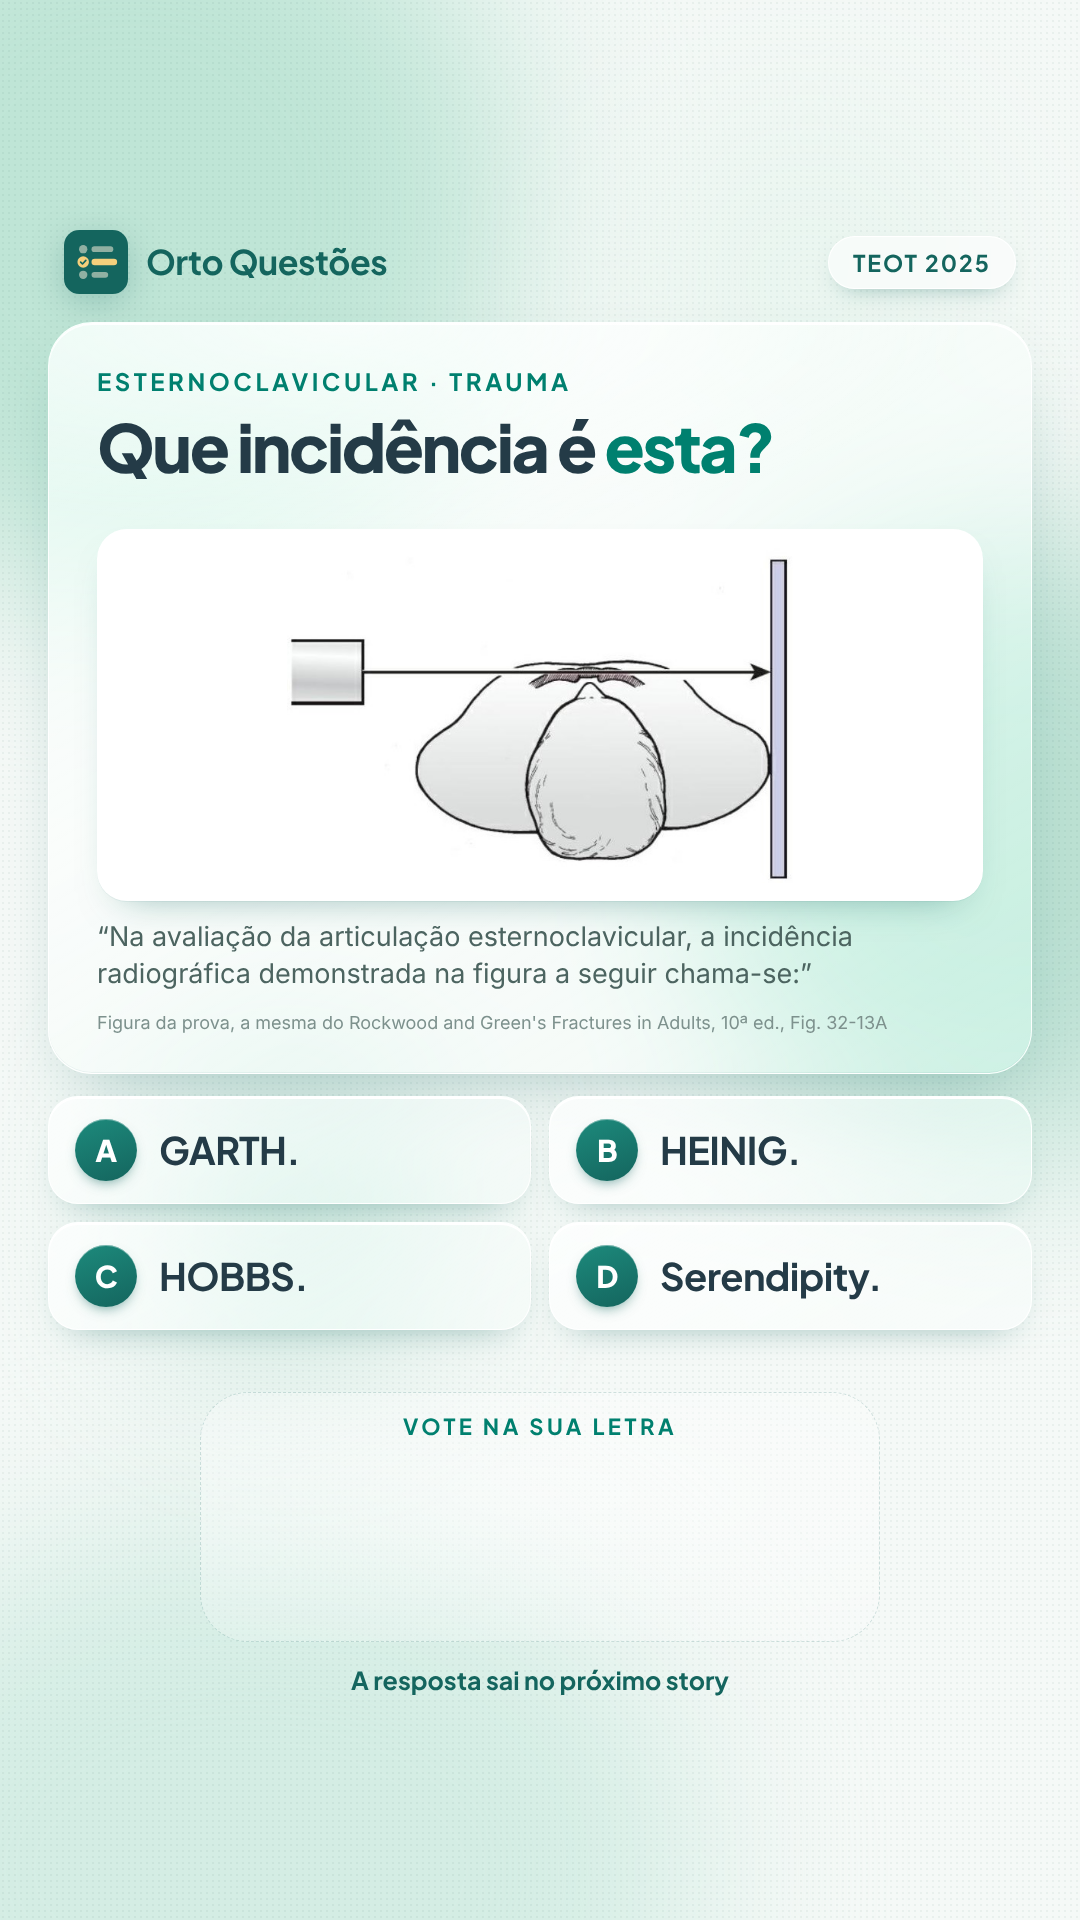
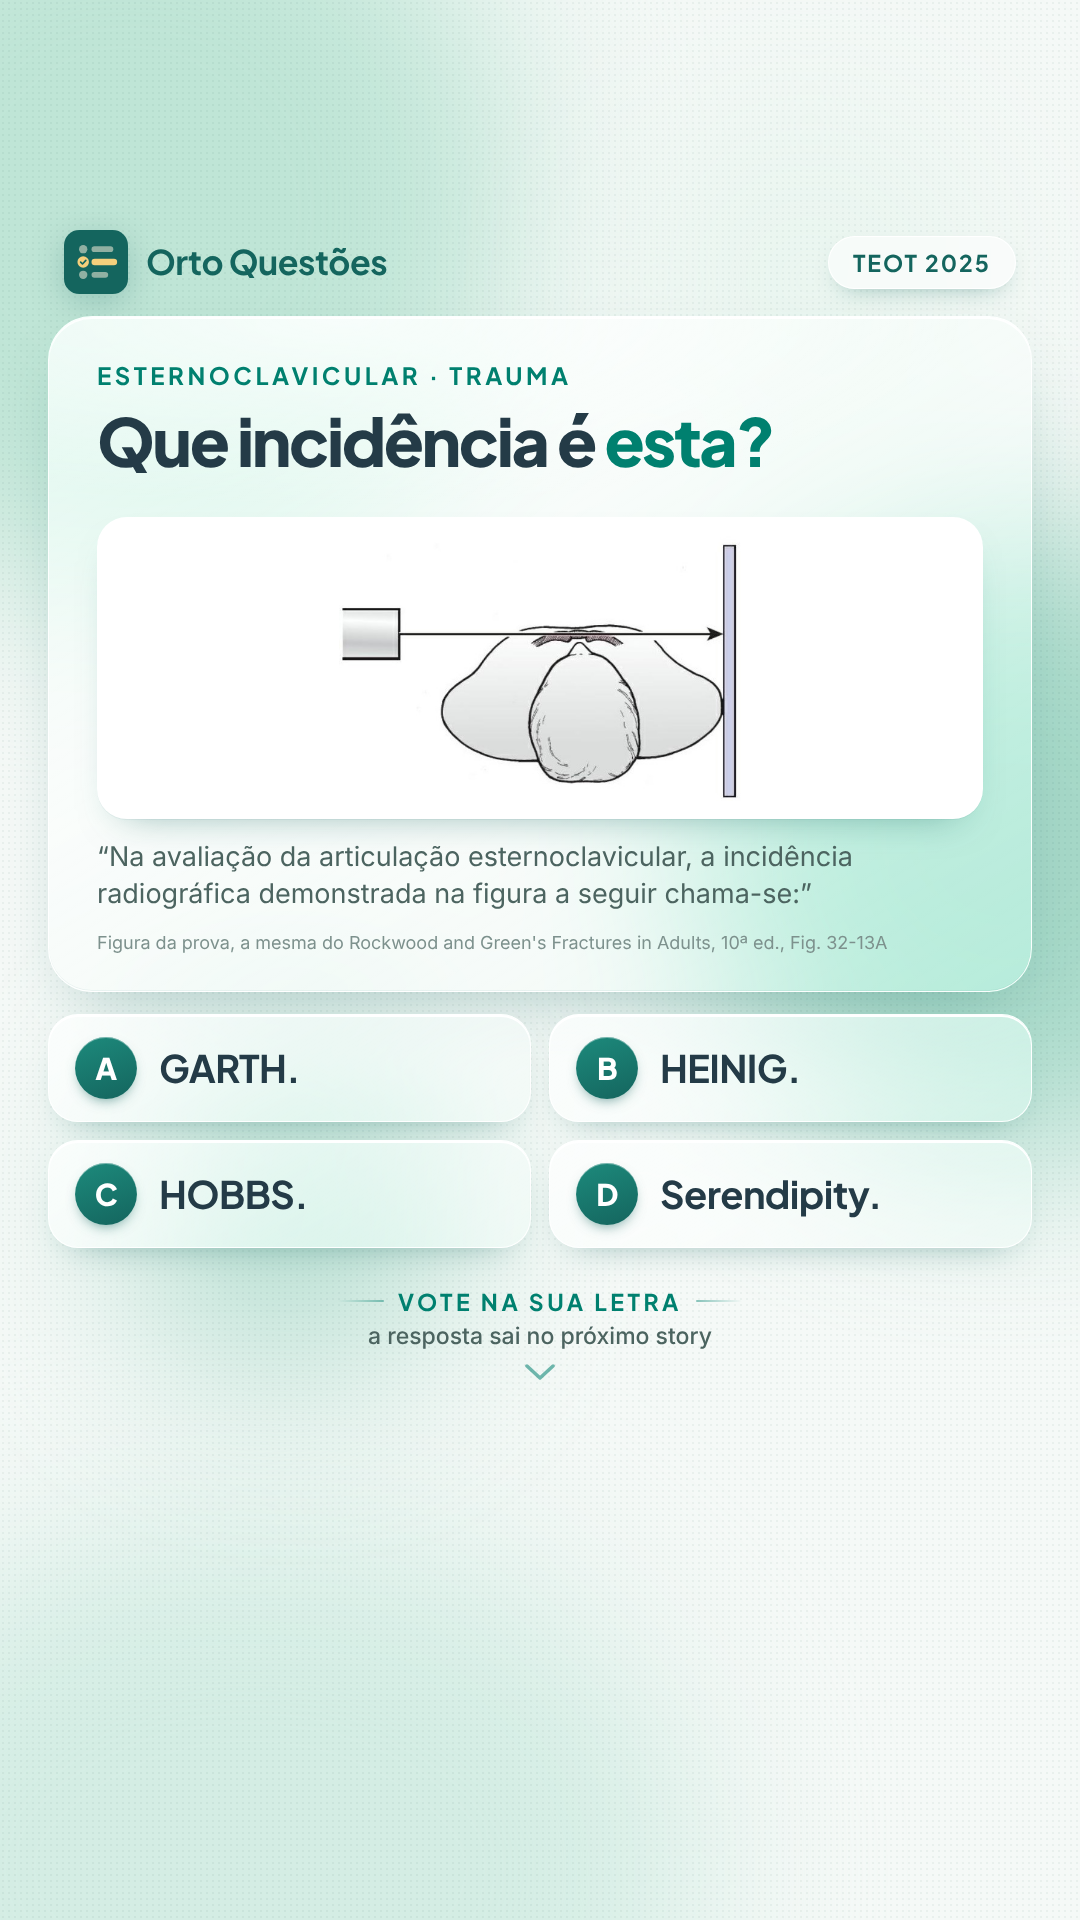
Story 1 do HEINIG: tira a caixa da enquete e deixa só a área livre com a dica
Claude-Session: https://claude.ai/code/session_01GbKh11zCitYpbRvWcxSxNK

diff --git a/marketing/instagram/posts/2026-11-18-vidro-heinig/stories.html b/marketing/instagram/posts/2026-11-18-vidro-heinig/stories.html
@@ -1,7 +1,7 @@
 <!doctype html>
 <html lang="pt-BR"><head><meta charset="utf-8"><title>Vidro claro — HEINIG, TEOT 2025 (stories)</title>
 <!-- Stories "Vidro claro" (pedido do Tales, 18/11/2026): 3 stories, sem temática, cores do site (branco e verde),
-     acabamento de vidro suave (liquid glass), espaço livre para a enquete A/B/C/D no story 1 (o formato que deu
+     acabamento de vidro suave (liquid glass), área livre (sem caixa) para a enquete A/B/C/D no story 1 (o formato que deu
      certo no story do osteoma osteoide), trecho do comentário com o livro e convite ao site gratuito.
      Questão real: trauma-0753 (TEOT 2025), gabarito oficial B (HEINIG).
      Fonte: Rockwood and Green's Fractures in Adults, 10ª ed. (2025), cap. 32, Fig. 32-13 (a mesma figura da prova);
@@ -37,10 +37,10 @@ section {
 .fundo { position: absolute; inset: 0; z-index: -1; overflow: hidden; }
 .fundo i { position: absolute; border-radius: 50%; filter: blur(90px); }
 .fundo .m1 { width: 780px; height: 780px; left: -260px; top: -180px; background: #bfe5d6; }
-.fundo .m2 { width: 640px; height: 640px; right: -240px; top: 520px; background: #a9d9c8; opacity: .75; }
+.fundo .m2 { width: 640px; height: 640px; right: -240px; top: 520px; background: #93d1bd; opacity: .8; }
 .fundo .m3 { width: 900px; height: 700px; left: -200px; bottom: -300px; background: #d4ede4; }
 .fundo .m4 { width: 380px; height: 380px; right: 80px; top: 90px; background: #e9f5ef; }
-.fundo .m5 { width: 300px; height: 300px; left: 140px; top: 1060px; background: #8fcdb9; opacity: .45; }
+.fundo .m5 { width: 340px; height: 340px; left: 120px; top: 1040px; background: #7cc6ae; opacity: .5; }
 .fundo::after { /* grão muito leve, para não parecer gradiente chapado */
   content: ''; position: absolute; inset: 0; opacity: .05;
   background-image: radial-gradient(#0b3b35 1px, transparent 1px); background-size: 6px 6px;
@@ -111,20 +111,14 @@ b { font-weight: 700; color: var(--tinta); }
 .alt.certa .l { background: linear-gradient(160deg, #f8dc92, #e2b24f); color: #4a3a12; }
 .alt.apagada { opacity: .5; }
 
-/* Espaço da enquete: sem moldura dura, só um vidro mais fino com cantos sugeridos */
-.enquete { position: absolute; border-radius: 48px;
-  background: radial-gradient(120% 90% at 50% 40%, rgba(255,255,255,.55), rgba(255,255,255,.12));
-  border: 1.5px dashed rgba(20,101,94,.18);
-}
-.enquete .dica {
-  position: absolute; left: 0; right: 0; top: 22px; text-align: center;
-  font: 700 22px/1 Jakarta; letter-spacing: 3.5px; text-transform: uppercase; color: var(--verde2);
-}
-.enquete .fantasma { position: absolute; inset: 44px 52px; display: grid; gap: 20px; opacity: .22; }
-.enquete .fantasma span {
-  border-radius: 22px; border: 2px solid rgba(20,101,94,.35);
-  display: flex; align-items: center; padding-left: 26px; font: 800 30px/1 Jakarta; color: var(--verde);
-}
+/* Espaço da enquete: nada desenhado, só a área livre e uma dica discreta no topo dela */
+.cheiro { position: absolute; left: 0; right: 0; text-align: center; }
+.cheiro .dica { display: inline-flex; align-items: center; gap: 14px;
+  font: 700 23px/1 Jakarta; letter-spacing: 3.5px; text-transform: uppercase; color: var(--verde2); }
+.cheiro .dica::before, .cheiro .dica::after { content: ''; width: 46px; height: 2px; border-radius: 2px;
+  background: linear-gradient(90deg, rgba(0,128,111,0), rgba(0,128,111,.45)); }
+.cheiro .dica::after { transform: scaleX(-1); }
+.cheiro svg { display: block; margin: 14px auto 0; width: 34px; height: 20px; opacity: .55; }
 
 /* Rodapé */
 .rodape { position: absolute; left: 64px; right: 64px; bottom: 300px; text-align: center; }
@@ -210,35 +204,34 @@ tr.dest td:last-child { border-radius: 0 14px 14px 0; }
     <span class="pilula">TEOT 2025</span>
   </div>
 
-  <div class="vidro" style="left:48px; right:48px; top:322px; height:752px;">
+  <div class="vidro" style="left:48px; right:48px; top:316px; height:676px;">
     <div style="position:absolute; left:48px; right:48px; top:46px;">
       <div class="rotulo">Esternoclavicular · trauma</div>
       <h1 style="margin-top:20px; font-size:66px;">Que incidência é <em>esta?</em></h1>
     </div>
-    <div class="placa" style="left:48px; right:48px; top:206px; height:372px;">
+    <div class="placa" style="left:48px; right:48px; top:200px; height:302px;">
       <img src="img/heinig-desenho.png" alt="" style="padding:18px 30px;">
     </div>
-    <p style="position:absolute; left:48px; right:48px; top:596px; font-size:27px; line-height:1.36;">
+    <p style="position:absolute; left:48px; right:48px; top:522px; font-size:27px; line-height:1.36;">
       “Na avaliação da articulação esternoclavicular, a incidência radiográfica demonstrada na figura a seguir chama-se:”
     </p>
-    <div class="fonte" style="position:absolute; left:48px; right:48px; top:688px; font-size:18px;">Figura da prova, a mesma do Rockwood and Green's Fractures in Adults, 10ª ed., Fig. 32-13A</div>
+    <div class="fonte" style="position:absolute; left:48px; right:48px; top:614px; font-size:18px;">Figura da prova, a mesma do Rockwood and Green's Fractures in Adults, 10ª ed., Fig. 32-13A</div>
   </div>
 
-  <div class="alts" style="left:48px; right:48px; top:1096px;">
+  <div class="alts" style="left:48px; right:48px; top:1014px;">
     <div class="alt"><span class="l">A</span>GARTH.</div>
     <div class="alt"><span class="l">B</span>HEINIG.</div>
     <div class="alt"><span class="l">C</span>HOBBS.</div>
     <div class="alt"><span class="l">D</span>Serendipity.</div>
   </div>
 
-  <!-- Espaço para a figurinha de enquete do Instagram (A, B, C, D) -->
-  <div class="enquete" style="left:200px; right:200px; top:1392px; height:250px;">
-    <div class="dica">Vote na sua letra</div>
+  <!-- Espaço livre para a figurinha de enquete do Instagram (A, B, C, D): sem caixa, só a dica -->
+  <div class="cheiro" style="top:1286px;">
+    <span class="dica">Vote na sua letra</span>
+    <div style="margin-top:12px; font:500 23px/1 Inter; color:var(--tinta2);">a resposta sai no próximo story</div>
+    <svg viewBox="0 0 34 20"><path d="M4 4l13 12L30 4" fill="none" stroke="#00806f" stroke-width="3.5" stroke-linecap="round" stroke-linejoin="round"/></svg>
   </div>
 
-  <div style="position:absolute; left:64px; right:64px; top:1668px; text-align:center; font:700 25px/1 Jakarta; color:var(--verde);">
-    A resposta sai no próximo story
-  </div>
 </section>
 
 <!-- ============ STORY 2: a resposta com o trecho do comentário ============ -->

diff --git a/marketing/instagram/posts/2026-11-18-vidro-heinig/LEGENDA.md b/marketing/instagram/posts/2026-11-18-vidro-heinig/LEGENDA.md
@@ -15,7 +15,7 @@ Questão `trauma-0753` (**TEOT 2025**), gabarito oficial **B** (HEINIG).
 
 | Ordem | Horário | Story | Arquivo |
 |---|---|---|---|
-| 1 | 7h | A questão, a figura e as alternativas; colocar a **enquete** (A, B, C, D) no espaço "Vote na sua letra" | `s1-questao.png` |
+| 1 | 7h | A questão, a figura e as alternativas; colocar a **enquete** (A, B, C, D) na área livre abaixo de "Vote na sua letra" (sem caixa desenhada) | `s1-questao.png` |
 | 2 | 12h | Resposta B, trecho do comentário "segundo o Rockwood" com a Fig. 32-13B e por que A, C e D não são | `s2-resposta.png` |
 | 3 | 19h | O comentário real num celular de vidro (a hierarquia dos exames) e "Treine grátis" | `s3-convite.png` |
 
